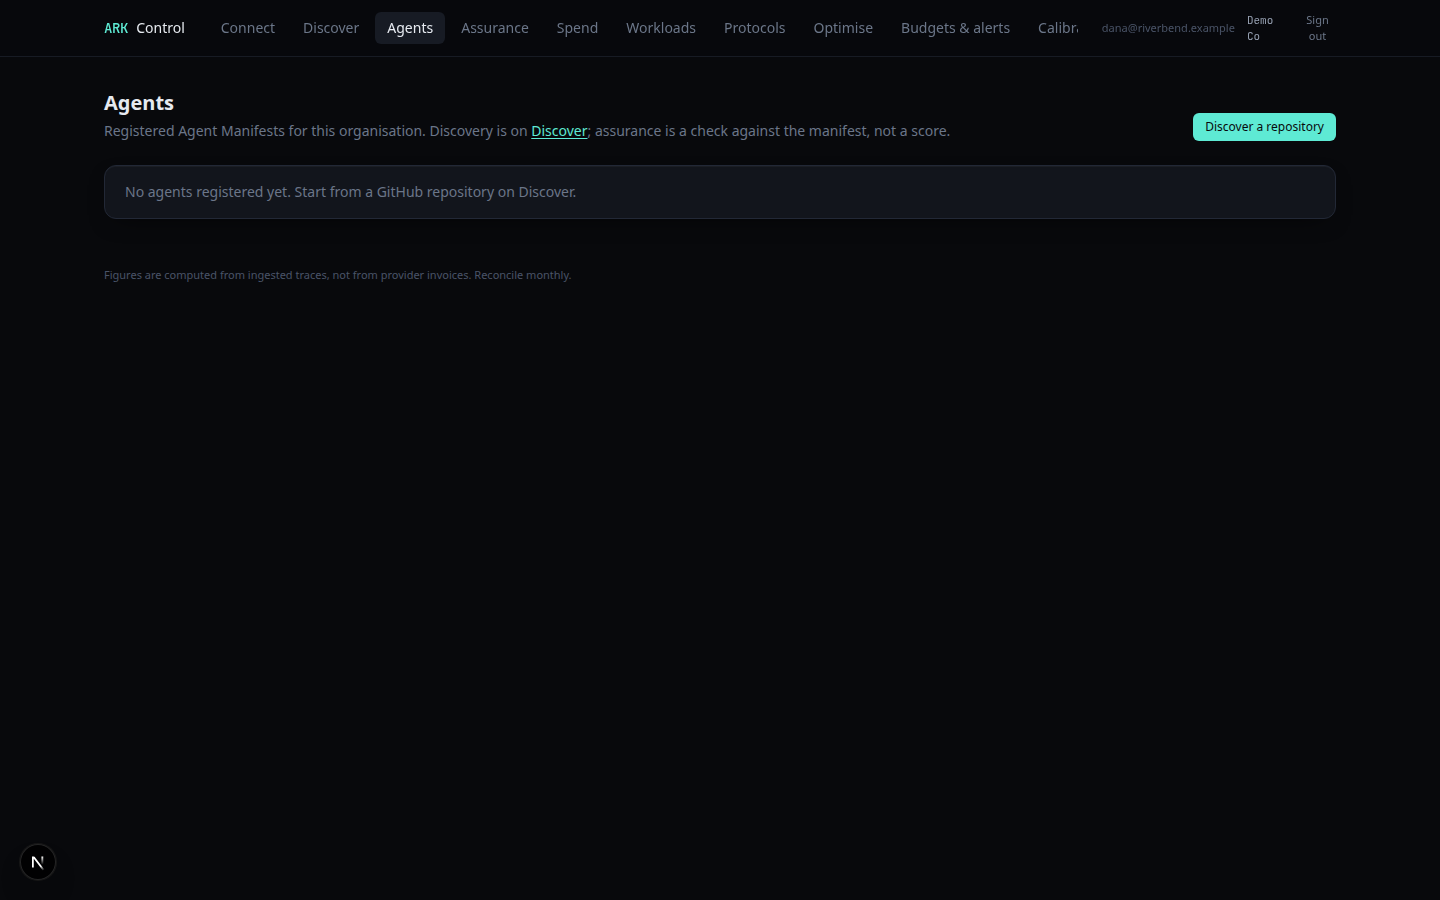
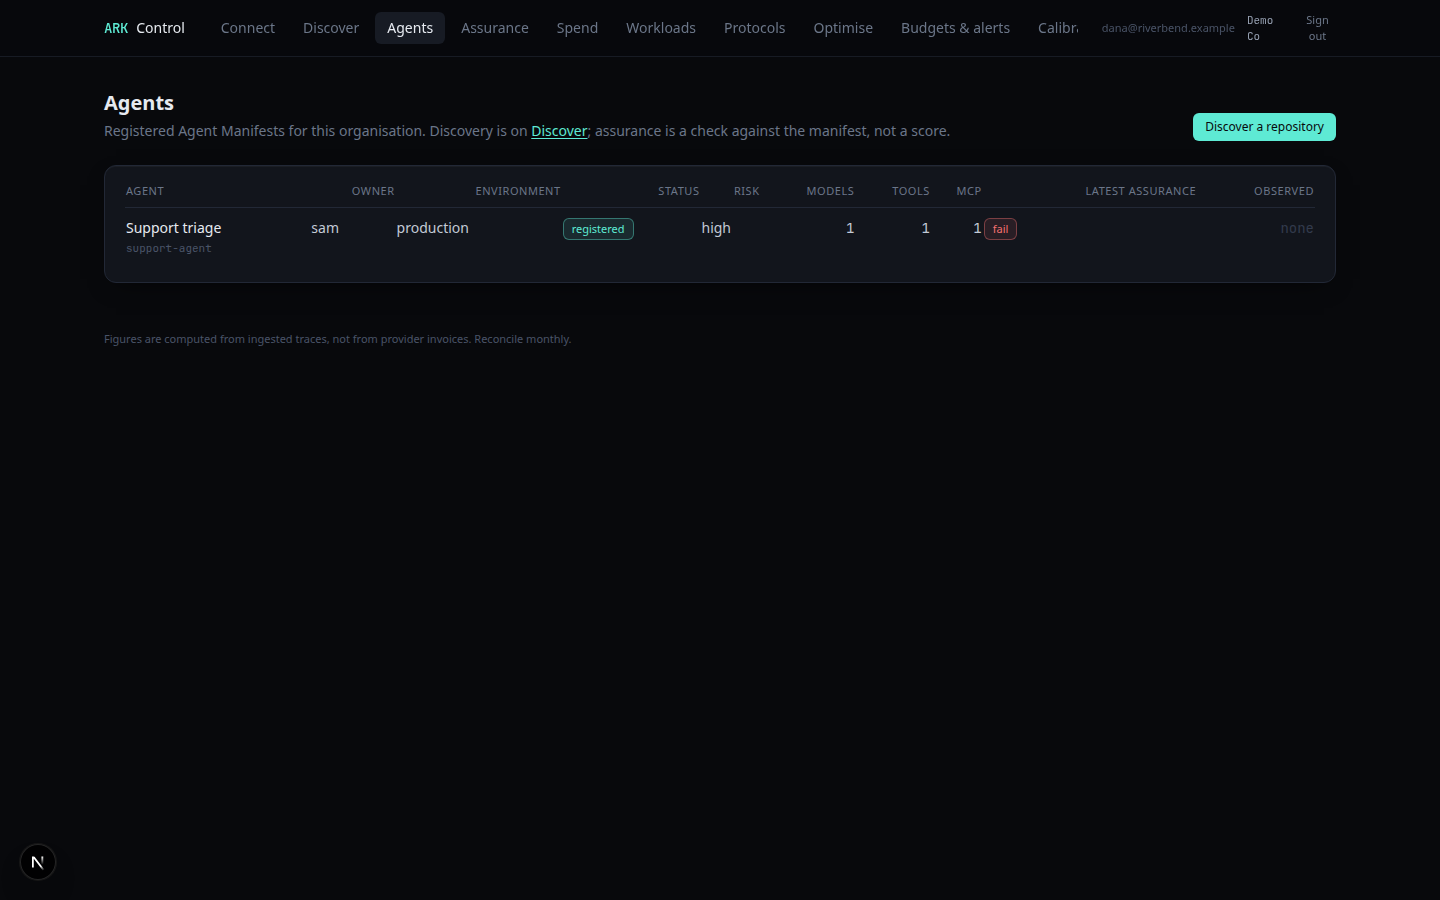
fix: prove Discover → Register → Assure in after evidence
Probe now invokes discovery, materialize, and assurance instead of
typeof checks. Recapture screenshots with a registered support-agent
and agent-detail. Bound GitHub fetch with an overall 20s deadline,
strip secret-looking MCP sources, and take latest assurance per agent
via MAX(created_at) rather than the first of the last 100.

diff --git a/packages/db/src/agents.ts b/packages/db/src/agents.ts
@@ -1,5 +1,5 @@
 import type { Client } from '@libsql/client';
-import type { AgentManifest, AssuranceReport, DiscoveryResult } from '@ark/core';
+import { AgentManifest, type AgentManifest as Manifest, type AssuranceReport, type DiscoveryResult } from '@ark/core';
 import { raw } from './queries.js';
 
 const n = (v: unknown) => Number(v ?? 0);
@@ -21,11 +21,19 @@ export interface StoredAgent {
   environment: string;
   status: string;
   riskLevel: string;
-  manifest: AgentManifest;
+  manifest: Manifest;
   sourceRepository: string | null;
   sourceCommit: string | null;
   createdAt: number;
   updatedAt: number;
+}
+
+function parseManifest(raw: unknown): Manifest {
+  const parsed = AgentManifest.safeParse(typeof raw === 'string' ? JSON.parse(raw) : raw);
+  if (!parsed.success) {
+    throw new Error('Stored agent manifest failed schema validation.');
+  }
+  return parsed.data;
 }
 
 function rowToAgent(x: Record<string, unknown>): StoredAgent {
@@ -37,7 +45,7 @@ function rowToAgent(x: Record<string, unknown>): StoredAgent {
     environment: s(x.environment),
     status: s(x.status),
     riskLevel: s(x.risk_level),
-    manifest: JSON.parse(s(x.manifest)) as AgentManifest,
+    manifest: parseManifest(x.manifest),
     sourceRepository: x.source_repository == null ? null : s(x.source_repository),
     sourceCommit: x.source_commit == null ? null : s(x.source_commit),
     createdAt: n(x.created_at),
@@ -50,7 +58,15 @@ export async function listAgents(orgId: string, client?: Client): Promise<Stored
     sql: `SELECT * FROM agents WHERE org_id=? ORDER BY name`,
     args: [orgId],
   });
-  return r.rows.map((x) => rowToAgent(x as Record<string, unknown>));
+  const out: StoredAgent[] = [];
+  for (const x of r.rows) {
+    try {
+      out.push(rowToAgent(x as Record<string, unknown>));
+    } catch {
+      // Corrupt JSON is not an agent. Skip rather than 500 the list.
+    }
+  }
+  return out;
 }
 
 export async function getAgent(orgId: string, agentId: string, client?: Client): Promise<StoredAgent | null> {
@@ -59,12 +75,17 @@ export async function getAgent(orgId: string, agentId: string, client?: Client):
     args: [orgId, agentId],
   });
   const row = r.rows[0];
-  return row ? rowToAgent(row as Record<string, unknown>) : null;
+  if (!row) return null;
+  try {
+    return rowToAgent(row as Record<string, unknown>);
+  } catch {
+    return null;
+  }
 }
 
 export async function upsertAgent(
   orgId: string,
-  manifest: AgentManifest,
+  manifest: Manifest,
   extra: { owner?: string; environment?: string; status?: string } = {},
   client?: Client,
 ): Promise<StoredAgent> {
@@ -72,11 +93,11 @@ export async function upsertAgent(
   const owner = extra.owner ?? manifest.owner ?? null;
   const environment = extra.environment ?? manifest.environment ?? 'unknown';
   const status = extra.status ?? (manifest.status === 'discovered' ? 'registered' : manifest.status);
-  const stored: AgentManifest = {
+  const stored: Manifest = {
     ...manifest,
     owner: owner ?? undefined,
-    environment: environment as AgentManifest['environment'],
-    status: status as AgentManifest['status'],
+    environment: environment as Manifest['environment'],
+    status: status as Manifest['status'],
   };
   await db(client).execute({
     sql: `INSERT INTO agents (
@@ -375,10 +396,26 @@ export async function latestAssuranceByAgent(
   orgId: string,
   client?: Client,
 ): Promise<Map<string, StoredAssuranceRun>> {
-  const runs = await listAssuranceRuns(orgId, client);
+  const r = await db(client).execute({
+    sql: `SELECT r.* FROM assurance_runs r
+          JOIN (
+            SELECT agent_id, MAX(created_at) created_at
+            FROM assurance_runs WHERE org_id=?
+            GROUP BY agent_id
+          ) latest ON latest.agent_id=r.agent_id AND latest.created_at=r.created_at
+          WHERE r.org_id=?`,
+    args: [orgId, orgId],
+  });
   const map = new Map<string, StoredAssuranceRun>();
-  for (const r of runs) {
-    if (!map.has(r.agentId)) map.set(r.agentId, r);
+  for (const x of r.rows) {
+    map.set(s(x.agent_id), {
+      id: s(x.id),
+      orgId: s(x.org_id),
+      agentId: s(x.agent_id),
+      createdAt: n(x.created_at),
+      status: s(x.status),
+      report: JSON.parse(s(x.report)) as AssuranceReport,
+    });
   }
   return map;
 }

diff --git a/packages/core/src/discovery/github.ts b/packages/core/src/discovery/github.ts
@@ -6,6 +6,7 @@ export const GITHUB_FETCH_LIMITS = {
   maxTotalBytes: 512_000,
   maxTreeEntries: 400,
   timeoutMs: 8_000,
+  overallMs: 20_000,
 } as const;
 
 export const GithubRepoRef = z.object({
@@ -107,6 +108,7 @@ export async function fetchGithubSnapshot(opts: {
   limits?: typeof GITHUB_FETCH_LIMITS;
 }): Promise<GithubSnapshot> {
   const limits = opts.limits ?? GITHUB_FETCH_LIMITS;
+  const deadline = Date.now() + limits.overallMs;
   const fetchFn = opts.fetchFn ?? fetch;
   const { owner, repo } = opts.ref;
   const headers: Record<string, string> = {
@@ -117,6 +119,7 @@ export async function fetchGithubSnapshot(opts: {
   if (opts.token) headers.authorization = `Bearer ${opts.token}`;
 
   const get = async (url: string) => {
+    if (Date.now() > deadline) throw new Error('GitHub fetch exceeded the overall time budget.');
     const ac = new AbortController();
     const timer = setTimeout(() => ac.abort(), limits.timeoutMs);
     try {
@@ -157,6 +160,10 @@ export async function fetchGithubSnapshot(opts: {
   const files: GithubFileBlob[] = [];
   let total = 0;
   for (const filePath of selected) {
+    if (Date.now() > deadline) {
+      warnings.push(`Stopped fetching at the ${limits.overallMs} ms overall budget.`);
+      break;
+    }
     if (files.length >= limits.maxFiles) break;
     const contentRes = await get(
       `https://api.github.com/repos/${owner}/${repo}/contents/${encodeURIComponent(filePath).replaceAll('%2F', '/')}?ref=${encodeURIComponent(branch)}`,

diff --git a/packages/core/src/discovery/scan.ts b/packages/core/src/discovery/scan.ts
@@ -304,7 +304,7 @@ function scanMcpConfig(file: RepoFile, mcpMap: Map<string, DiscoveredMcp>, evide
     mcpMap.set(name, {
       name,
       transport,
-      source: cfg.command ?? cfg.url,
+      source: safeMcpSource(cfg.command ?? cfg.url),
       evidencePaths: [file.path],
     });
     evidence.push({ path: file.path, kind: 'mcp', detail: `server ${name}` });
@@ -441,6 +441,13 @@ function scanEvalPolicy(file: RepoFile, infra: DiscoveredInfra[], evidence: Disc
     infra.push({ kind: 'policy', name: base, evidencePaths: [file.path] });
     evidence.push({ path: file.path, kind: 'policy', detail: base });
   }
+}
+
+function safeMcpSource(value?: string): string | undefined {
+  if (!value) return undefined;
+  const trimmed = value.trim();
+  if (LOOKS_SECRET.test(trimmed) || /token=|api[_-]?key|password/i.test(trimmed)) return undefined;
+  return trimmed.slice(0, 500);
 }
 
 function scanIntegrations(

diff --git a/apps/control/src/app/discover/actions.ts b/apps/control/src/app/discover/actions.ts
@@ -59,7 +59,8 @@ export async function registerCandidate(formData: FormData) {
   const { orgId } = await requireOrg();
   const runId = String(formData.get('runId') ?? '');
   const candidateId = String(formData.get('candidateId') ?? '');
-  const owner = String(formData.get('owner') ?? '').trim() || undefined;
+  const ownerRaw = String(formData.get('owner') ?? '').trim().slice(0, 200);
+  const owner = ownerRaw || undefined;
   const envParsed = AgentEnvironment.safeParse(String(formData.get('environment') ?? 'unknown'));
   const environment = envParsed.success ? envParsed.data : 'unknown';
 

diff --git a/apps/control/src/app/dashboard/page.tsx b/apps/control/src/app/dashboard/page.tsx
@@ -15,7 +15,14 @@ export default async function Dashboard() {
     agentInfrastructureSummary(orgId),
   ]);
 
-  if (spend.traces === 0 && agents.registered === 0) return <Empty />;
+  if (spend.traces === 0 && agents.registered === 0) {
+    return (
+      <div className="space-y-6">
+        <Empty />
+        <AgentInfra agents={agents} />
+      </div>
+    );
+  }
 
   const qualityBy = new Map(quality.map((q) => [q.workloadId, q]));
   const critical = alerts.filter((a) => a.severity === 'critical').length;

diff --git a/evidence/agent-control-v01/EVIDENCE.md b/evidence/agent-control-v01/EVIDENCE.md
@@ -12,35 +12,44 @@ Same command twice:
 node evidence/agent-control-v01/probe.mjs
 ```
 
-Conditions: compiled `@ark/core` / `@ark/db` / `@ark/runtime`, seeded SQLite (`npm run setup`), Control `next dev` on `:3002`. Authed probe uses Northwind (`sam@northwind.example`). Screenshots: `node evidence/agent-control-v01/shots.mjs` at 1440×900, Demo Co login, routes `/discover` `/agents` `/assurance` `/dashboard`.
+Conditions: compiled `@ark/core` / `@ark/db` / `@ark/runtime`, seeded SQLite (`npm run setup`), Control `next dev` on `:3002`. After recapture also upserts a Demo Co fixture (`support-agent`) and runs assurance so `/agents` and `/agents/support-agent` are not empty. Screenshots: `node evidence/agent-control-v01/shots.mjs` at 1440×900, Demo Co login.
+
+The after probe **calls** `discoverRepository` + `materializeAgentManifests` on a LangGraph/OpenAI/MCP fixture, `runAssurance` on a production high-risk missing-owner manifest (expects `fail`), and `selectDiscoveryFiles` (expects cap 40). It is not `typeof === 'function'` only.
 
 ## Before / after
 
-| | Before (`before.txt`, commit `ac7476f`) | After (`after.txt`, commit `a2a0000`) |
+| | Before (`before.txt`, commit `ac7476f`) | After (`after.txt`) |
 |---|---|---|
 | `@ark/core` AgentManifest / discovery / assurance / policy | ABSENT | yes |
+| `discoverRepository` on fixture | ABSENT | yes (confidence 0.8) |
+| materialize leaves owner unknown | ABSENT | yes |
+| assurance fails production missing owner | ABSENT | yes |
+| file cap 40 | ABSENT | yes |
 | Giant purpose rejected | ABSENT | yes |
 | GitHub URL parser | ABSENT | yes |
 | `listAgents` + `agents` DDL | ABSENT | yes |
 | `RuntimeRequest.agentId` optional | ABSENT | yes |
-| `GET /discover` `/agents` `/assurance` (anon) | ABSENT (would 404) | 307 (login) |
+| `GET /discover` `/agents` `/assurance` (anon) | ABSENT (status 0 — Control was not listening) | 307 (login) |
 | Same routes authed | ABSENT | 200 |
+| `GET /agents/support-agent` authed | ABSENT | 200, names Support triage |
 | Nav Discover + docs/09 | ABSENT | yes |
 
-Screenshots: `after-discover.png`, `after-agents.png`, `after-assurance.png`, `after-dashboard.png`.
+Screenshots: `after-discover.png`, `after-agents.png`, `after-assurance.png`, `after-dashboard.png`, `after-agent-detail.png`.
 
 Capture timestamps and commit SHAs are in `captures.tsv`.
 
+**Before was not recaptured.** A baseline taken after editing is not a baseline. The original before is Control-down (fetch status 0) and an unbuilt `@ark/core` dist in that container. That is weaker than a 404-with-server-up, and it is what was actually measured before the first edit.
+
 ## What this does not prove
 
-Live GitHub fetch was unit-tested with an injected `fetch`, not against github.com in this run (`ARK_GITHUB_TOKEN` unset). Screenshots are empty-inventory pages (Demo Co has no registered agents yet). Policy evaluation is unit-tested only — it is not on the request path. Load, SSO, and private-repo rate limits were not exercised.
+Live GitHub fetch was unit-tested with an injected `fetch`, not against github.com in this run (`ARK_GITHUB_TOKEN` unset). The registered agent on the screenshots is a fixture upsert, not a live GitHub Discover click. Policy evaluation is unit-tested only — it is not on the request path. Load, SSO, and private-repo rate limits were not exercised.
 
 ## Deviations
 
-None of substance. `RiskLevel` on the Agent Manifest is exported as `AgentRiskLevel` so it does not collide with the existing assessment `RiskLevel` (`low | moderate | high | severe`). Field name on the manifest remains `riskLevel`.
+`RiskLevel` on the Agent Manifest is exported as `AgentRiskLevel` so it does not collide with the existing assessment `RiskLevel` (`low | moderate | high | severe`). Field name on the manifest remains `riskLevel`.
 
 ## Definition of done
 
-- **Cost / latency impact:** Discovery is a bounded GitHub fetch (40 files, 64 KB each, 512 KB total, 8 s timeout). Assurance is in-process Zod + checks. Ingest of `agent_id` is one extra nullable column. No change to cost-per-outcome queries.
+- **Cost / latency impact:** Discovery is a bounded GitHub fetch (40 files, 64 KB each, 512 KB total, 8 s per request, 20 s overall). Assurance is in-process Zod + checks. Ingest of `agent_id` is one extra nullable column. No change to cost-per-outcome queries.
 - **Observability for new failure modes:** Discover form surfaces GitHub errors (404/401/timeout) without logging the token. Assurance findings persist on `assurance_runs`. Unknown fields stay `unknown`, not pass.
 - **Docs or ADR updated:** `docs/09-agent-control-v01.md`; extensions to `docs/01-architecture.md`, `docs/03-data-model.md`, `docs/04-roadmap.md`, `docs/08-how-ark-works.md`, `README.md`, `.env.example`.
